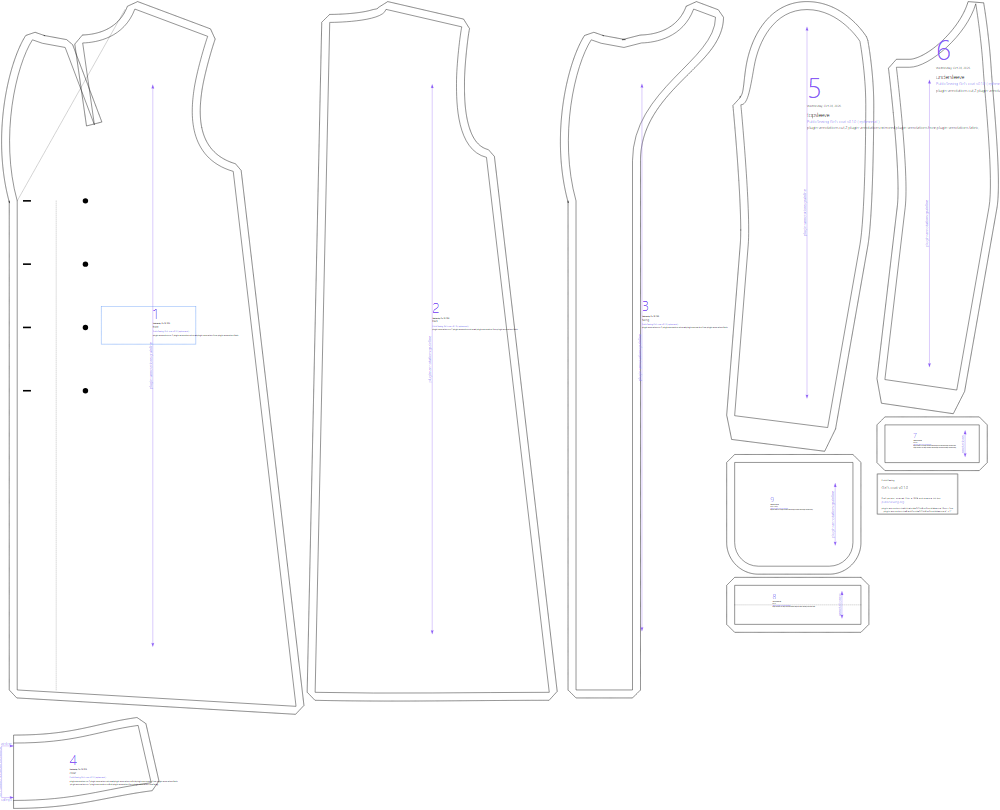
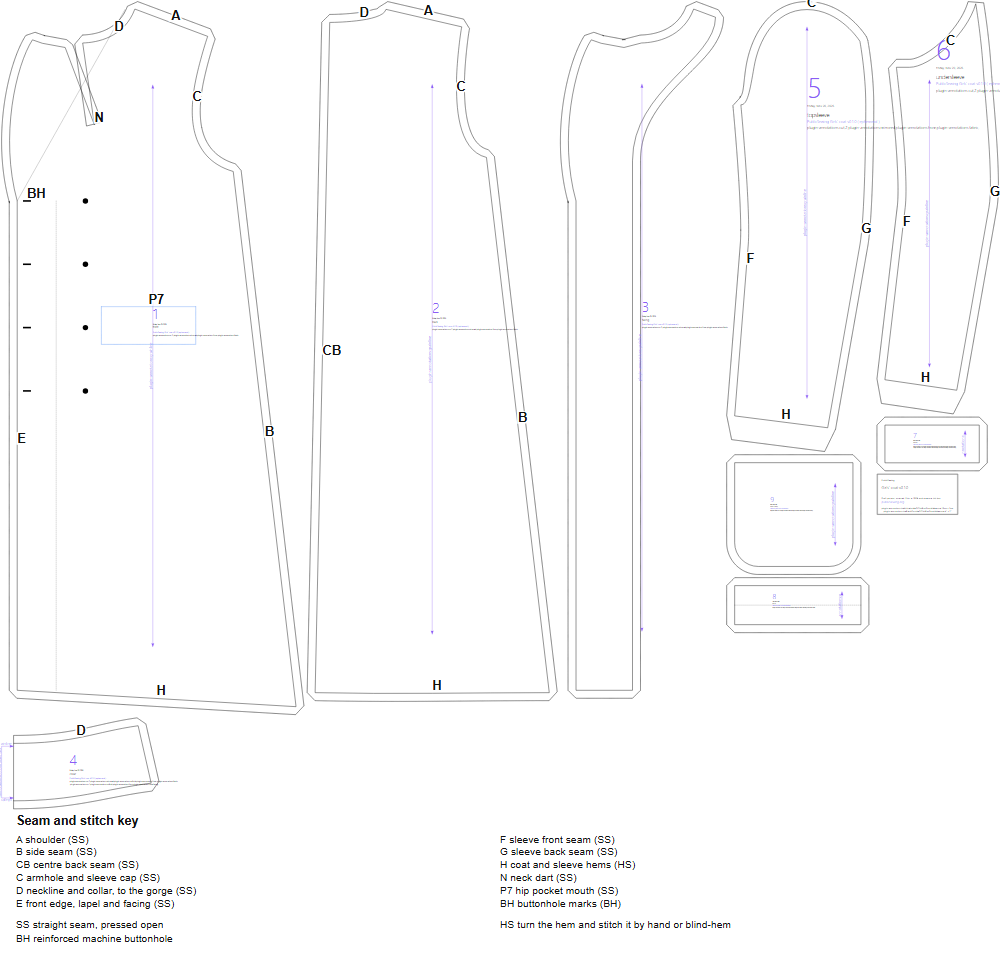
Map the women's box coat; the girls' coat inherits it
Field jacket and Inverness coat opt out of the inherited map until mapped.

diff --git a/designs/womens-box-coat/BRIEF.md b/designs/womens-box-coat/BRIEF.md
@@ -51,19 +51,14 @@ hips).
 Inches above are read off p. 19 at its scale (the 3" lap measures 3"), to about ⅛".
 
 ## Construction order
-1. Neck darts. Pockets, on each front (marked: the mouth line, the flap below it):
-   - make up each flap (fabric and lining, right sides together, round three sides; turn, press);
-   - lay the flap upside down above the mouth, its raw edge on the line; fold the jet in half
-     lengthwise and lay it below the line, raw edges meeting; stitch both to the mouth's length;
-   - cut along the mouth between the stitch lines, snipping into the corners; turn the jet
-     through to make a single piping and the flap down over it;
-   - sew one bag piece to the flap's seam allowance and one to the jet's, then the bags
-     together round their edges; secure the ends of the mouth.
-2. CB seam; shoulders; side seams.
-3. Collar to the neckline up to the gorge; facings to the fronts and lapels.
-4. Sleeves: the two pieces together, then set in, easing the cap.
-5. Hem; buttonholes near the front edge (on the right front over the left), buttons behind CF
-   on the other front.
+Letters are the seam and placement codes on the pattern map; numbers are printed on the pieces. **SS** straight seam pressed open, **HS** hem stitch, **BH** machine buttonhole.
+
+1. Sew the neck darts **N** in the fronts **1**.
+2. Pockets on each front **1**, at the mouth lines **P7** (hip) and **P10** (ticket): make up each flap **7**, **10** (fabric and lining, right sides together round three sides; turn, press); lay it upside down above the mouth, raw edge on the line; fold the jet **8**, **11** in half lengthwise and lay it below the line, raw edges meeting; stitch both to the mouth's length; cut the mouth between the stitch lines, snipping into the corners; turn the jet through as a single piping and the flap down over it; sew one bag **9**, **12** to the flap's allowance and one to the jet's, then the bags together; secure the ends of the mouth.
+3. Sew the centre back seam **CB** of the backs **2**, then the shoulders **A** and side seams **B** to the fronts **1**.
+4. Sew the collar **4** to the neckline **D** of the fronts **1** and backs **2** up to the gorge; sew the facings **3** to the fronts and lapels along **E**.
+5. Sleeves: join the top sleeve **5** and under sleeve **6** at **F** and **G**, then set them into the armholes **C** of the fronts **1** and backs **2**, easing the cap.
+6. Turn up the hems **H** of the fronts **1**, backs **2** and sleeves **5**, **6** with **HS**. Work the buttonholes **BH** near the front edge (on the right front over the left) and sew the buttons behind CF on the other front.
 
 ## Changes and what isn't modelled
 - **The neck dart is pivoted from Breanna's waist dart**, not drafted as Mitchell's 22: it
